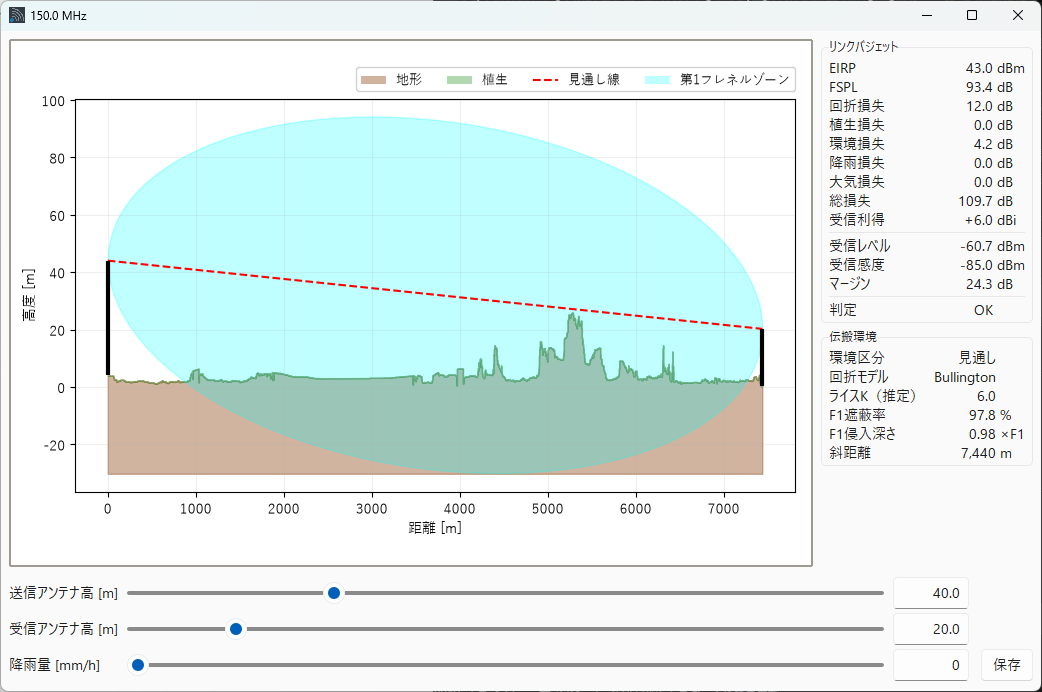
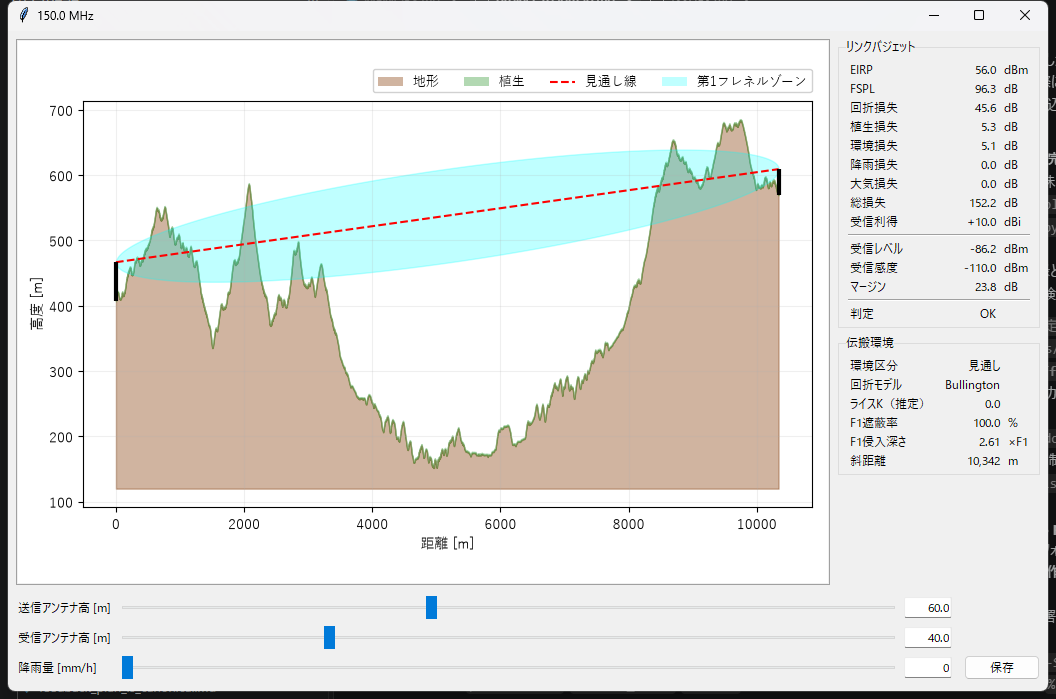
docs: インストーラ配布とB-160の断面図畳み込みを文書に反映する（3.1 段7）
README・マニュアル（インストール節）をインストーラ版/ポータブル版の2形態案内に更新し、
開発者文書に build.bat installer の使い方を追加。マニュアルの断面図の説明はB-160の
処方（画素中心へ畳んでから描画）に合わせて更新し、スクショを差し替えた。

diff --git a/docs/manual_en.md b/docs/manual_en.md
@@ -102,24 +102,36 @@ This tool is intended solely for screening purposes — determining whether a fi
 
 ## Installation & Launch
 
-### Installation
+There are two distribution forms. Both are Windows binaries with identical features.
 
-1. Extract the distribution ZIP file to any folder.
+### Installer (recommended)
+
+1. Download `RadioSimPro-Setup-<version>.exe` from [Releases](https://github.com/kumahide/radiosim/releases) and run it.
+2. Administrator rights are not required (by default it installs into your own user profile). Follow the prompts to finish.
+3. Launch `RadioSimPro` from the Start menu.
+
+The installer build stores **settings, cache, logs, and results in OS-standard locations** (table below). It writes nothing but the exe itself into the install folder, so installing under a write-protected location (e.g. under `Program Files`) works fine.
+
+| Contents                                        | Location                     |
+| ------------------------------------------------ | ----------------------------- |
+| UI settings and last-used input values (`radiosim_conf.json`) | `%APPDATA%\RadioSim\`        |
+| DEM tile disk cache, logs                        | `%LOCALAPPDATA%\RadioSim\`   |
+| Saved-package output (`results/`)                | `Documents\RadioSim\` (not a hidden folder, since you open it yourself) |
+
+> If you are upgrading from the old layout (`radiosim_conf.json` / `results/` next to the exe), those are **copied** to the new locations on first launch (the old files are left in place; the DEM cache is not migrated since it can be regenerated).
+
+### Portable build (ZIP)
+
+1. Extract the distribution ZIP file (`RadioSimPro-<version>.zip`) to any folder.
 2. Place the extracted folder wherever you like. The app can be moved freely.
 
 > **Note**: Do not modify the folder structure. `RadioSimPro.exe` cannot run as a standalone file.
 
+The portable build ships with a `portable.txt` marker next to the exe, so settings, cache, logs, and results are all created **inside that same folder** (`terrain_cache/`, `results/`, `radiosim_conf.json`). This suits carrying the app on a USB drive.
+
 ### Launch
 
-Double-click `RadioSimPro.exe`.
-
-On first launch, the following directories and files are created automatically in the same folder as the exe:
-
-| Path                   | Contents                                            |
-| ---------------------- | --------------------------------------------------- |
-| `terrain_cache/`     | Disk cache for DEM tiles (persists across sessions) |
-| `results/`           | Output destination for saved packages               |
-| `radiosim_conf.json` | UI settings and last-used input values              |
+Launch the installer build from the Start menu, or double-click `RadioSimPro.exe` for the portable build.
 
 ---
 
@@ -336,7 +348,7 @@ After retrieval completes, the terrain cross-section graph is displayed.
 | Cyan band           | 1st Fresnel Zone                                         |
 | Black vertical bars | TX / RX antennas                                         |
 
-⚠ **A finely jagged, stepped terrain outline is normal** — the profile is simply **the points where elevation was read, joined up**, and on "high" and "medium" they are read **every few metres** (at the boundaries of a grid roughly 4 m wide on "high", 8 m on "medium"). The data is neither coarse nor broken: the finer you look, the more of the real relief you see. (On "high", elevation is constant within one pixel, so the shelf-and-riser shape comes out especially clearly.) The same thing shows up in the rows of the saved `terrain_profile.csv` (see "Save Package" below). "Low" samples evenly every 20 m, so its line is smoother — but it skips the fine relief.
+On "high" and "medium", terrain samples are placed at DEM pixel boundaries (see "Terrain resolution" above), but this profile graph (and the terrain outline in report PNGs and KML) **collapses samples that share a pixel to that pixel's centre** before drawing the line, so the outline is smooth. ⚠ **This is a display-only adjustment** — the underlying calculation (e.g. diffraction loss) still uses the uncollapsed sample list, so values are unaffected. The saved `terrain_profile.csv` writes the uncollapsed samples as-is, so its rows still form a staircase (see "Save Package" below). "Low" samples evenly every 20 m, so its line is already smooth — but it skips the fine relief.
 
 #### Sliders
 

diff --git a/docs/developer_ja.md b/docs/developer_ja.md
@@ -154,6 +154,21 @@ Compress-Archive -Path "$dist\RadioSimPro" -DestinationPath "$dist\RadioSimPro-$
 
 > ⚠ **ZIP の名前に版を入れる**＝公開している資産名は `RadioSimPro-<版>.zip`（例: `RadioSimPro-2.7.zip`）です。版なしの名前で作ると、Releases に添付するときに付け直すことになります。
 
+`build.bat` は既定で **ZIP 用のポータブル配置**（`portable.txt` を `RadioSimPro/` 直下へ同梱）を作ります。`core.config.is_portable()` はこのファイルの有無で分岐します（無ければ「インストール先が書込禁止かもしれない」と見なし、OS 標準の場所〔`%APPDATA%` 等〕へ書きます）。
+
+### インストーラのビルド（Inno Setup・3.1 段6）
+
+```bat
+build.bat installer
+```
+
+`build.bat` と同じビルドを行ったうえで、[installer/radiosim.iss](../installer/radiosim.iss)（Inno Setup）を使って `RadioSimPro-Setup-<版>.exe` を生成します。**`portable.txt` は同梱しません**（インストール先は常に非ポータブル扱い＝設定・キャッシュ・ログ・結果は OS 標準の場所）。
+
+- **前提条件**: [Inno Setup](https://jrsoftware.org/isinfo.php) 導入済み（`winget install JRSoftware.InnoSetup` 等）＋環境変数 `RADIOSIM_ISCC` に `ISCC.exe` のフルパスを設定（例: `setx RADIOSIM_ISCC "C:\Program Files (x86)\Inno Setup 6\ISCC.exe"`）。未設定・実体なしならビルドを中止します。
+- **インストール先の既定**: `{autopf}`（`PrivilegesRequired=lowest`＝管理者権限が無ければユーザー配下、あればユーザーが選べる）。
+- **出力先**: ビルド出力と同じ `dist/`（`RadioSimPro-Setup-<版>.exe`）。
+- **署名**: `RADIOSIM_SIGNTOOL` が定義済みなら、exe 本体と同じ 1 か所の呼び出しでインストーラにも署名します（未定義なら未署名のまま＝[[project_code_signing]] のとおり実施はトリガー時）。
+
 ### `radiosim.spec` の主な設定
 
 | 設定 | 内容 |

diff --git a/docs/developer_en.md b/docs/developer_en.md
@@ -154,6 +154,21 @@ Compress-Archive -Path "$dist\RadioSimPro" -DestinationPath "$dist\RadioSimPro-$
 
 > ⚠ **Put the version in the ZIP name** — the published assets are named `RadioSimPro-<version>.zip` (for example `RadioSimPro-2.7.zip`). Building an unversioned name just means renaming it when attaching the release.
 
+By default, `build.bat` produces the **portable ZIP layout** (a `portable.txt` marker bundled inside `RadioSimPro/`). `core.config.is_portable()` branches on whether this file exists (its absence means "the install location may be read-only", so the app writes to OS-standard locations such as `%APPDATA%` instead).
+
+### Building the Installer (Inno Setup, 3.1 stage 6)
+
+```bat
+build.bat installer
+```
+
+Runs the same build as `build.bat`, then wraps it with [installer/radiosim.iss](../installer/radiosim.iss) (Inno Setup) to produce `RadioSimPro-Setup-<version>.exe`. **`portable.txt` is not bundled** — the install is always treated as non-portable (settings, cache, logs, and results go to OS-standard locations).
+
+- **Prerequisites**: [Inno Setup](https://jrsoftware.org/isinfo.php) installed (e.g. `winget install JRSoftware.InnoSetup`) and the environment variable `RADIOSIM_ISCC` pointing at the full path to `ISCC.exe` (e.g. `setx RADIOSIM_ISCC "C:\Program Files (x86)\Inno Setup 6\ISCC.exe"`). The build aborts if it is unset or points at a nonexistent file.
+- **Default install location**: `{autopf}` (`PrivilegesRequired=lowest` — falls back to the user's own profile without admin rights, or lets an admin choose).
+- **Output**: same `dist/` folder as the regular build (`RadioSimPro-Setup-<version>.exe`).
+- **Signing**: if `RADIOSIM_SIGNTOOL` is defined, the same single call point signs the installer as well as the exe itself (left unsigned otherwise — see [[project_code_signing]], on hold until a trigger).
+
 ### Key `radiosim.spec` Settings
 
 | Setting | Details |

diff --git a/README.md b/README.md
@@ -73,10 +73,11 @@
 
 ### Windows バイナリ版（Python 不要）
 
-1. [Releases](https://github.com/kumahide/radiosim/releases) から `RadioSimPro-<版>.zip`（例: `RadioSimPro-3.0.zip`）をダウンロード
-2. ZIP を展開し `RadioSimPro.exe` をダブルクリック
+**インストーラ版（推奨）**: [Releases](https://github.com/kumahide/radiosim/releases) から `RadioSimPro-Setup-<版>.exe` をダウンロードして実行（管理者権限不要）。設定・キャッシュ・結果は OS 標準の場所（`%APPDATA%`／`%LOCALAPPDATA%`／ドキュメント）へ保存されます。
 
-> 署名なし EXE のため SmartScreen 警告が出る場合があります。「詳細情報」→「実行」をクリックしてください。
+**ポータブル版**: 同じく Releases から `RadioSimPro-<版>.zip`（例: `RadioSimPro-3.1.zip`）をダウンロードし、ZIP を展開して `RadioSimPro.exe` をダブルクリック。設定・キャッシュ・結果は展開したフォルダの中に作られ、USB メモリ等で持ち運べます。
+
+> 署名なし EXE のため SmartScreen 警告が出る場合があります。「詳細情報」→「実行」をクリックしてください。詳細は [docs/manual_ja.md](docs/manual_ja.md#インストール・起動) を参照してください。
 
 ### Python スクリプト版
 
